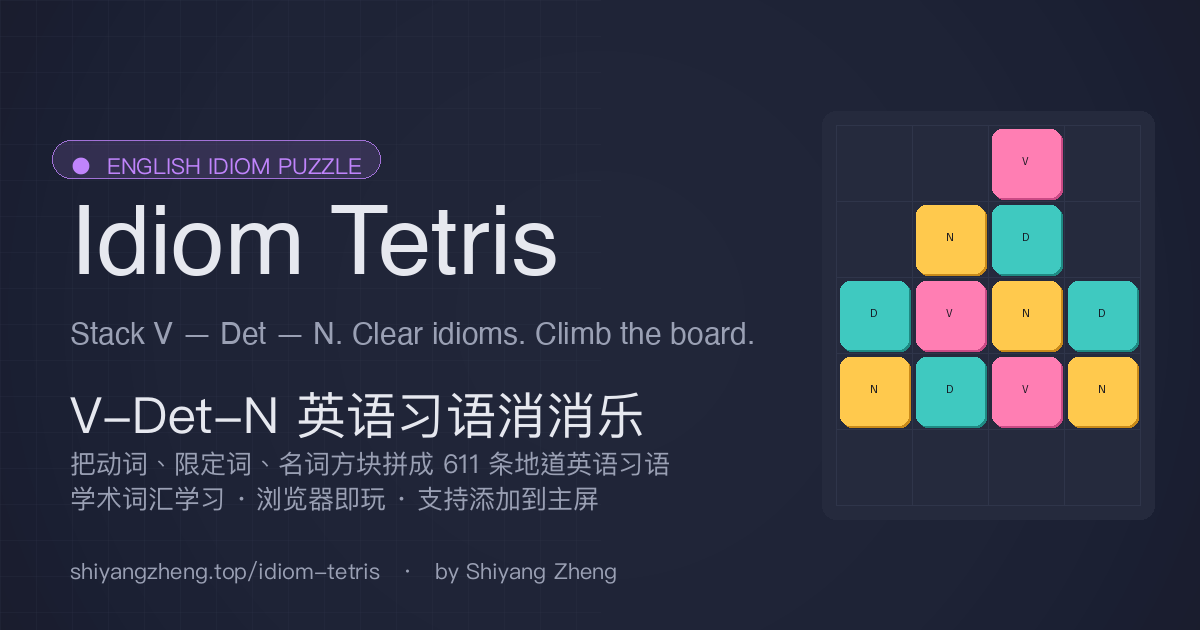
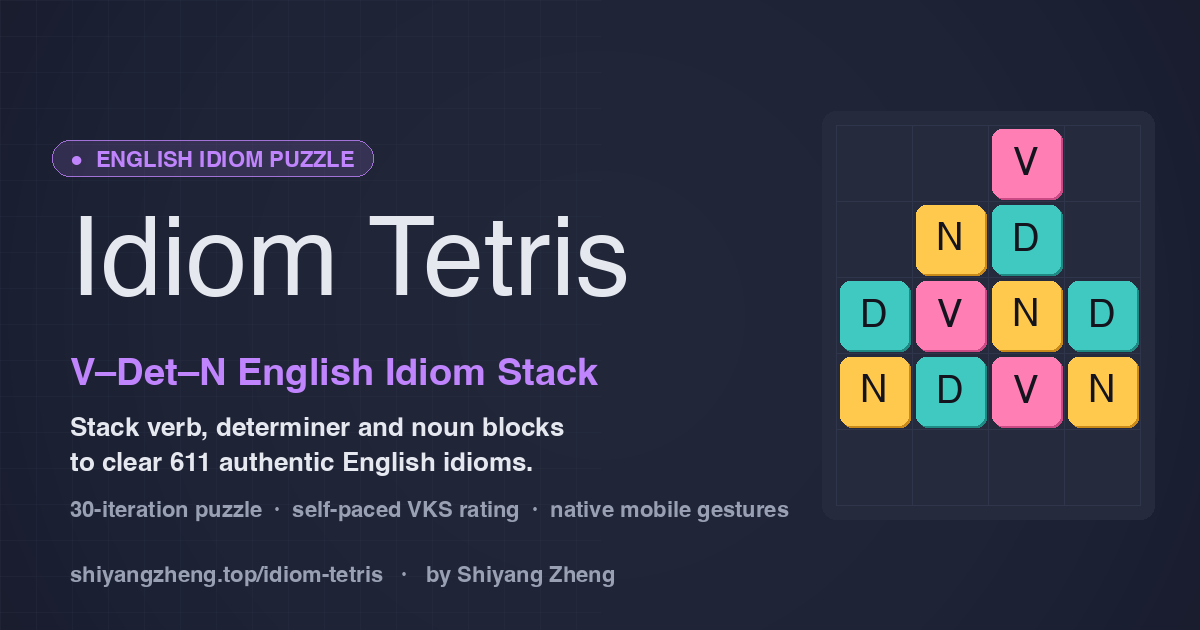
fix(og): switch share card to pure English
- og:title / og:description / og:image:alt → English
- twitter:title / twitter:description / twitter:image:alt → English
- WeChat itemprop → English
- <title> → English
- Regenerated og-image.png:
  - Removed all Chinese text (title + description)
  - Title: Idiom Tetris (110pt)
  - Subtitle: V–Det–N English Idiom Stack
  - Description: Stack verb, determiner and noun blocks to clear 611 authentic English idioms
  - Meta: 30-iteration puzzle · self-paced VKS rating · native mobile gestures
  - Footer: shiyangzheng.top/idiom-tetris · by Shiyang Zheng

All 30 <meta content=...> attrs now have 0 Chinese characters.

diff --git a/index.html b/index.html
@@ -17,26 +17,26 @@
 <!-- Open Graph (WeChat, Facebook, LinkedIn, Discord, ...) -->
 <meta property="og:type" content="website">
 <meta property="og:url" content="https://shiyangzheng.top/idiom-tetris/">
-<meta property="og:title" content="Idiom Tetris — V-Det-N 英语习语消消乐">
-<meta property="og:description" content="把动词、限定词、名词方块拼成 611 条地道英语习语。学术词汇学习 + 浏览器即玩 + 支持添加到主屏。">
+<meta property="og:title" content="Idiom Tetris — V-Det-N English Idiom Stack">
+<meta property="og:description" content="Stack verb, determiner and noun blocks to clear 611 authentic English V-Det-N idioms. A self-paced VKS vocabulary puzzle by Shiyang Zheng. Play in your browser, installable to home screen.">
 <meta property="og:image" content="https://shiyangzheng.top/idiom-tetris/og-image.png">
 <meta property="og:image:width" content="1200">
 <meta property="og:image:height" content="630">
-<meta property="og:image:alt" content="Idiom Tetris — 拼 V-Det-N 方块学英语习语">
+<meta property="og:image:alt" content="Idiom Tetris — V-Det-N English Idiom Stack">
 <meta property="og:site_name" content="Idiom Tetris">
 <meta property="og:locale" content="en_US">
 <meta property="og:locale:alternate" content="zh_CN">
 
 <!-- Twitter / X -->
 <meta name="twitter:card" content="summary_large_image">
-<meta name="twitter:title" content="Idiom Tetris — V-Det-N 英语习语消消乐">
-<meta name="twitter:description" content="把动词、限定词、名词方块拼成 611 条地道英语习语。">
+<meta name="twitter:title" content="Idiom Tetris — V-Det-N English Idiom Stack">
+<meta name="twitter:description" content="Stack verb, determiner and noun blocks to clear 611 authentic English V-Det-N idioms. A self-paced VKS vocabulary puzzle by Shiyang Zheng.">
 <meta name="twitter:image" content="https://shiyangzheng.top/idiom-tetris/og-image.png">
-<meta name="twitter:image:alt" content="Idiom Tetris — V-Det-N 英语习语消消乐">
+<meta name="twitter:image:alt" content="Idiom Tetris — V-Det-N English Idiom Stack">
 
 <!-- WeChat 兼容 (微信内置浏览器不读 og:image，需要单独引导) -->
-<meta itemprop="name" content="Idiom Tetris — V-Det-N 英语习语消消乐">
-<meta itemprop="description" content="把动词、限定词、名词方块拼成 611 条地道英语习语。">
+<meta itemprop="name" content="Idiom Tetris — V-Det-N English Idiom Stack">
+<meta itemprop="description" content="Stack verb, determiner and noun blocks to clear 611 authentic English V-Det-N idioms. A self-paced VKS vocabulary puzzle by Shiyang Zheng.">
 <meta itemprop="image" content="https://shiyangzheng.top/idiom-tetris/og-image.png">
 
 <link rel="canonical" href="https://shiyangzheng.top/idiom-tetris/">
@@ -47,7 +47,7 @@
 <link rel="apple-touch-icon" sizes="180x180" href="apple-touch-icon.png">
 <link rel="image_src" href="og-image.png">
 
-<title>Idiom Tetris — V-Det-N 英语习语消消乐</title>
+<title>Idiom Tetris — V-Det-N English Idiom Stack</title>
 <style>
   /* ============================================================
    *  CSS THEME